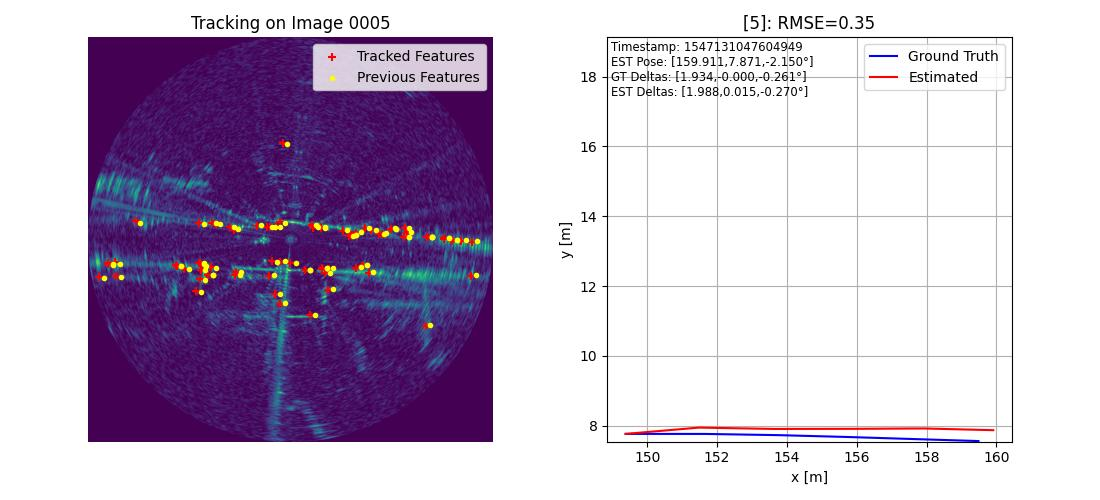
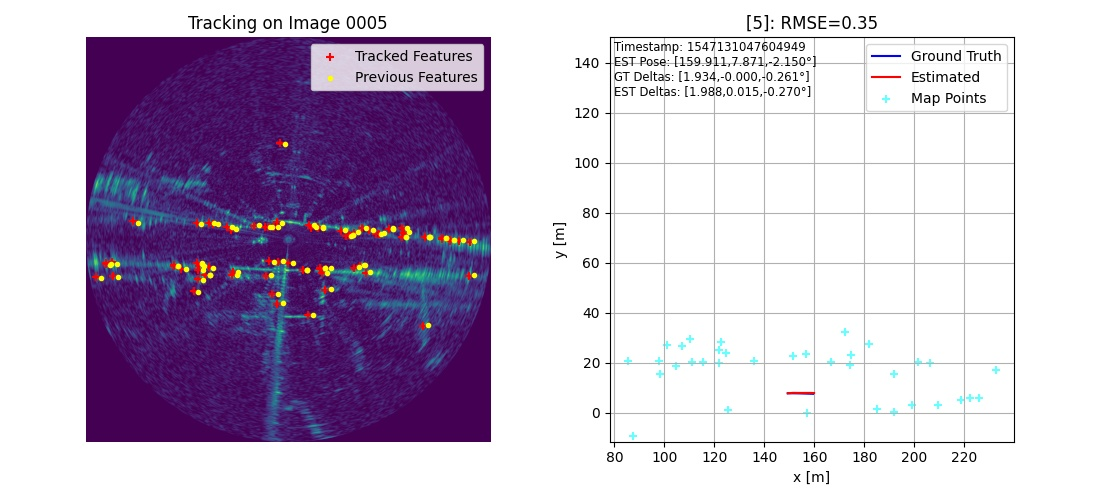
plotting map points

diff --git a/RawROAMSystem.py b/RawROAMSystem.py
@@ -250,7 +250,7 @@ class RawROAMSystem():
                 print("\nAdding keyframe...\n")
 
                 #old_kf.copyFromOtherKeyframe(possible_kf)
-                #self.map.addKeyframe(possible_kf)
+                self.map.addKeyframe(possible_kf)
 
                 # TODO: Aliasing above? old_kf is never assigned the object possible_kf,
                 # map ends up with a list of N pointers to the same keyframe
@@ -271,8 +271,9 @@ class RawROAMSystem():
                 self.plot(prevImgCart, currImgCart, good_old, good_new, R, h,
                         seqInd, save = True, show = False)
             else:
-                self.plot(prevImgCart, currImgCart, good_old, good_new, R, h,
-                        seqInd, save = False, show = False)
+                if seqInd % 3 == 0:
+                    self.plot(prevImgCart, currImgCart, good_old, good_new, R, h,
+                            seqInd, save = False, show = False)
             # Update incremental variables
             blobCoord = good_new.copy()
             prevImgCart = currImgCart
@@ -319,7 +320,7 @@ class RawROAMSystem():
 
         ax2 = self.fig.add_subplot(1, 2, 2)
         # TODO: Plotting for map points
-        #self.map.plot(self.fig, show=False)
+        self.map.plot(self.fig, show=False)
 
         self.plotTraj(seqInd, R, h, save=False, show=False)
 

diff --git a/Mapping.py b/Mapping.py
@@ -221,11 +221,10 @@ class Map():
         @param[in] fig plt figure to plot on @todo do this
         '''
         # TODO: For now, plot all the keyframe feature points
+        points_global = np.empty((0, 2))
         for kf in self.keyframes:
-            points_local = kf.featurePointsLocal
-            points_global = kf.convertFeaturesLocalToGlobal(points_local)
-            
-            plt.scatter(points_global[:, 0], points_global[:, 1], marker='+', color='red',label='Map Points')
+            points_global = np.vstack((points_global,kf.getPrunedFeaturesGlobalPosition()))
+        plt.scatter(points_global[:, 0], points_global[:, 1], marker='+', color='g',alpha=.8,label='Map Points')
 
         if show:
             plt.show()
